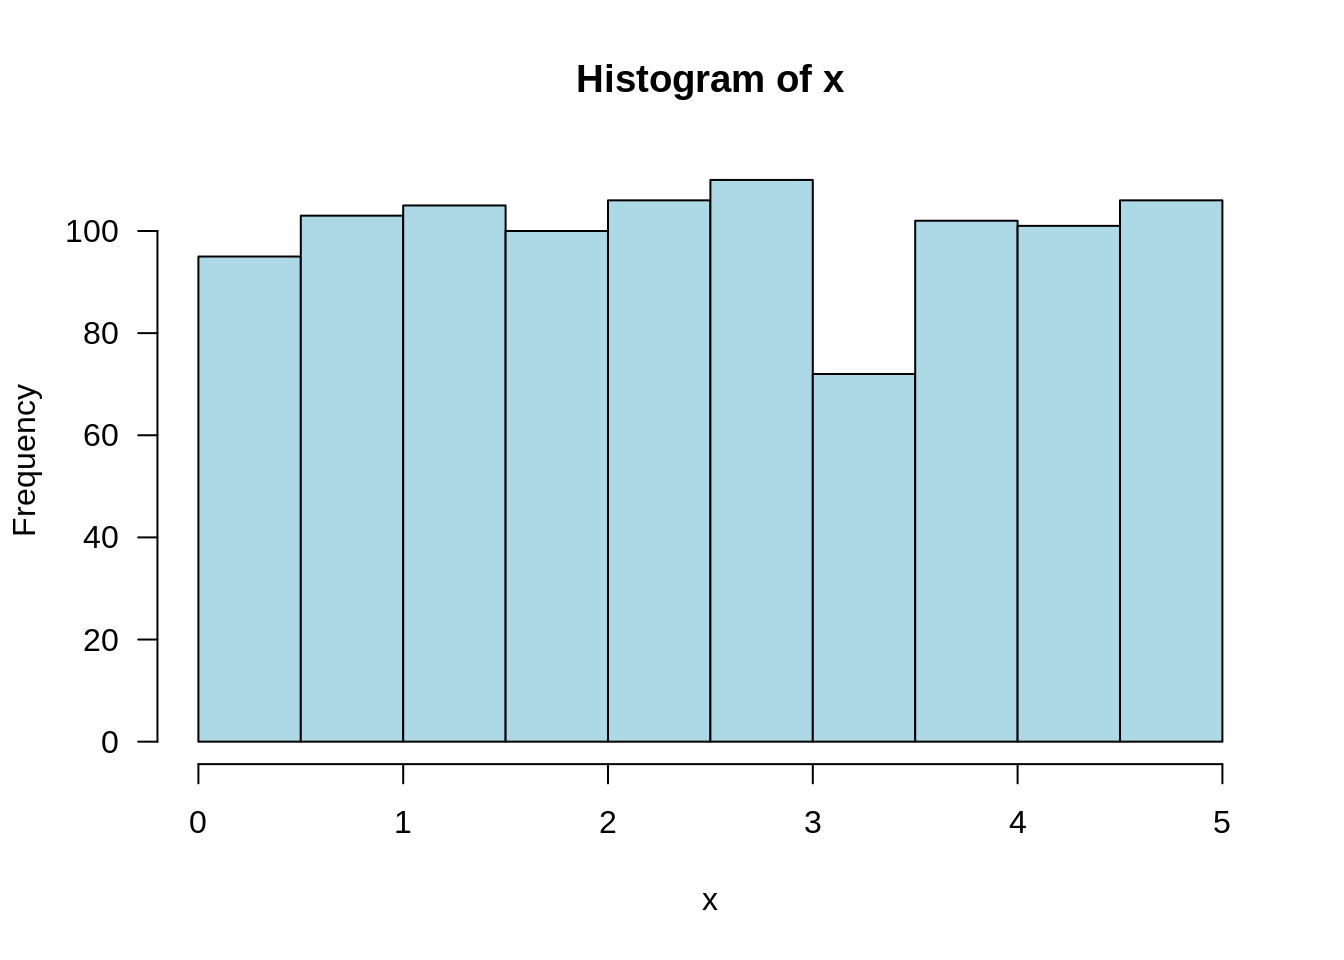
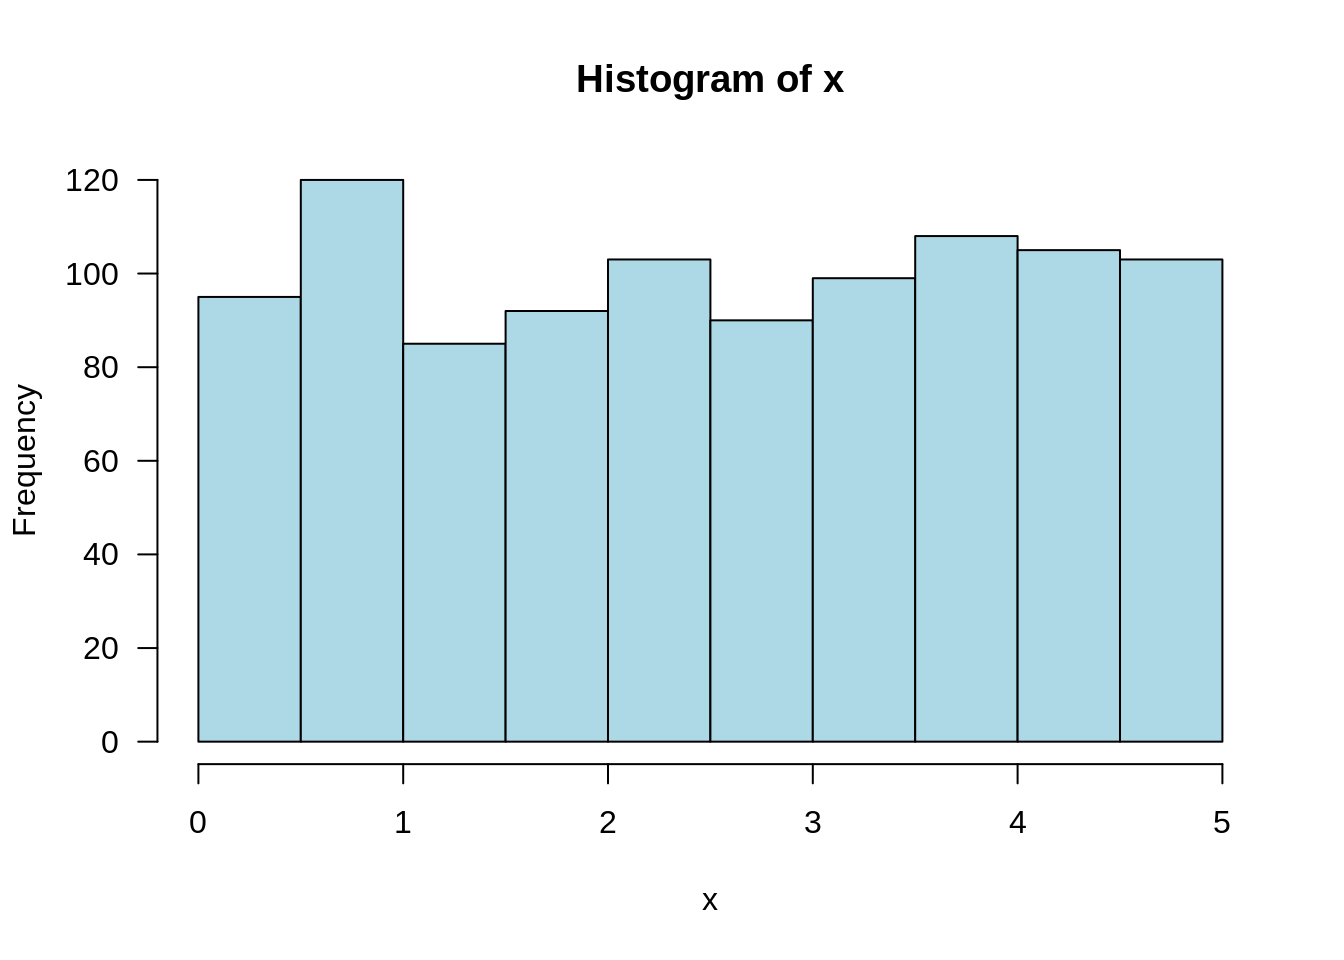
jtr13 published a site update

diff --git a/ch-4-continuous-random-variables-and-probability-distributions.html b/ch-4-continuous-random-variables-and-probability-distributions.html
@@ -24,7 +24,7 @@
 <meta name="author" content="Joyce Robbins" />
 
 
-<meta name="date" content="2021-03-27" />
+<meta name="date" content="2021-04-15" />
 
   <meta name="viewport" content="width=device-width, initial-scale=1" />
   <meta name="apple-mobile-web-app-capable" content="yes" />
@@ -270,11 +270,11 @@ code span.wa { color: #60a0b0; font-weight: bold; font-style: italic; } /* Warni
 <p>Randomly choose one number from the distribution:</p>
 <p><span class="math inline">\(f(x) = .2\)</span> for <span class="math inline">\(0 \leq x \leq 5\)</span>, 0 otherwise.</p>
 <div class="sourceCode" id="cb151"><pre class="sourceCode r"><code class="sourceCode r"><span id="cb151-1"><a href="ch-4-continuous-random-variables-and-probability-distributions.html#cb151-1"></a><span class="kw">runif</span>(<span class="dt">n =</span> <span class="dv">1</span>, <span class="dt">min =</span> <span class="dv">0</span>, <span class="dt">max =</span> <span class="dv">5</span>)</span></code></pre></div>
-<pre><code>## [1] 4.55061</code></pre>
+<pre><code>## [1] 0.2873048</code></pre>
 <p>Take the average of 1000 picks:</p>
 <div class="sourceCode" id="cb153"><pre class="sourceCode r"><code class="sourceCode r"><span id="cb153-1"><a href="ch-4-continuous-random-variables-and-probability-distributions.html#cb153-1"></a>x &lt;-<span class="st"> </span><span class="kw">runif</span>(<span class="dt">n =</span> <span class="dv">1000</span>, <span class="dt">min =</span> <span class="dv">0</span>, <span class="dt">max =</span> <span class="dv">5</span>)</span>
 <span id="cb153-2"><a href="ch-4-continuous-random-variables-and-probability-distributions.html#cb153-2"></a><span class="kw">mean</span>(x)</span></code></pre></div>
-<pre><code>## [1] 2.492148</code></pre>
+<pre><code>## [1] 2.525557</code></pre>
 <p>Draw a histogram of the 1000 picks:</p>
 <div class="sourceCode" id="cb155"><pre class="sourceCode r"><code class="sourceCode r"><span id="cb155-1"><a href="ch-4-continuous-random-variables-and-probability-distributions.html#cb155-1"></a><span class="kw">hist</span>(x, <span class="dt">las =</span> <span class="dv">1</span>, <span class="dt">col =</span> <span class="st">&quot;lightblue&quot;</span>)</span></code></pre></div>
 <p><img src="STAT1201-resource_files/figure-html/unnamed-chunk-41-1.png" width="672" /></p>

diff --git a/scripts/corrcoef.js b/scripts/corrcoef.js
@@ -1,0 +1,110 @@
+var action = "add";
+
+//Width and height of svg
+  var w = 600;
+  var h = 400;
+  var padding = 30;
+
+// axis min / max
+  var xmin = -50;
+  var xmax = 50;
+  var ymin = -30;
+  var ymax = 30;
+
+// Scale functions
+
+var xScale = d3.scaleLinear()
+  .domain([xmin, xmax])
+  .range([padding, w - padding * 2]);
+
+var yScale = d3.scaleLinear()
+  .domain([ymin, ymax])
+  .range([h - padding, padding]);
+
+
+// Axes
+  var xAxis = d3.axisBottom()
+    .scale(xScale).ticks(5);
+
+  var yAxis = d3.axisLeft()
+    .scale(yScale).ticks(5);
+
+//Create SVG element
+  var svg = d3.select("div#corr")
+    .append("svg")
+      .attr("width", w)
+      .attr("height", h);
+
+
+//Create X axis
+  svg.append("g")
+    .attr("transform", `translate(0, ${yScale(0)})`)
+		.call(xAxis);
+
+//Create Y axis
+  svg.append("g")
+    .attr("transform", `translate(${xScale(0)}, 0)`)
+    .call(yAxis);
+
+//On radio button change, update styling
+  d3.selectAll("input")
+    .on("click", function() {
+					action = d3.select(this).node().value;
+			  });
+
+// Update stats function
+
+  var updatestats = function() {
+
+    var data = d3.selectAll("circle").data();
+
+		if(data.length < 2) {
+					d3.select("p#r").text("Two points are needed to calculate r.");
+					return;
+					}
+
+		x = data.map(d => d[0]);
+
+		y = data.map(d => d[1]);
+
+		Sxx = d3.sum(x.map(d => Math.pow(d-d3.mean(x), 2)));
+
+		Sxy = d3.sum(x.map( (d, i) => (x[i]-d3.mean(x))*(y[i]-d3.mean(y))));
+
+		Syy = d3.sum(y.map(d => Math.pow(d-d3.mean(y), 2)));
+
+		corrcoef = Sxy/(Math.sqrt(Sxx)*Math.sqrt(Syy));
+
+		d3.select("p#r").text(`r = ${corrcoef.toFixed(2)}`);
+			}
+
+// Click behavior
+
+	svg.on("click", function() {
+
+	if(action === "add") {
+
+// add a point
+
+	var new_x = xScale.invert(d3.mouse(this)[0]);
+
+	var new_y = yScale.invert(d3.mouse(this)[1]);
+
+	svg.append("circle")
+	  .data([[new_x, new_y]])
+		.attr("cx", d => xScale(d[0]))
+		.attr("cy", d => yScale(d[1]))
+		.attr("r", "3")
+		.attr("fill", "red")
+		.on("mouseover", function () {
+		  if (action === "remove") {
+			   d3.select(this).remove();
+			   updatestats();
+			   }
+			 });
+
+		 updatestats();
+
+		}
+
+	});

diff --git a/ch-5-joint-probability.html b/ch-5-joint-probability.html
@@ -24,7 +24,7 @@
 <meta name="author" content="Joyce Robbins" />
 
 
-<meta name="date" content="2021-03-27" />
+<meta name="date" content="2021-04-15" />
 
   <meta name="viewport" content="width=device-width, initial-scale=1" />
   <meta name="apple-mobile-web-app-capable" content="yes" />
@@ -269,6 +269,32 @@ code span.wa { color: #60a0b0; font-weight: bold; font-style: italic; } /* Warni
 <h2>5.2 Expected Values, Covariance, and Correlation</h2>
 <p>Skip <em>everything but</em> “Covariance” pp. 214-215 and “Correlation” pp. 216-218</p>
 <p>(In both sections, skip double integrals)</p>
+<script src="https://d3js.org/d3.v4.min.js"></script>
+<div id="corr" style="width: 600px">
+<h3 id="interactive" class="unnumbered"><em>Interactive</em></h3>
+<p><strong>Click anywhere on the graph to add points. The correlation coefficient will be calculated.</strong></p>
+<p>
+The correlation coefficient (r) is a measure of the linear relationship
+between two variables x and y. To get a sense of the connection between the
+appearance of points – (x,y) pairs – in a scatterplot and the value of r,
+click anywhere on the graph to add points. To remove points, click the Remove
+points button and then mouseover points.
+</p>
+<table>
+<td>
+<p>
+<input type="radio" name="typeofaction" value="add" checked="true"> Add points
+<input type="radio" name="typeofaction" value="remove"> Remove points
+</p>
+</td>
+<td>
+<p id="r">
+Two points are needed to calculate r.
+</p>
+</td>
+</table>
+</div>
+<script src="scripts/corrcoef.js"></script>
 </div>
 <div id="resources-1" class="section level2 unnumbered">
 <h2>Resources</h2>

diff --git a/index.html b/index.html
@@ -24,7 +24,7 @@
 <meta name="author" content="Joyce Robbins" />
 
 
-<meta name="date" content="2021-03-27" />
+<meta name="date" content="2021-04-15" />
 
   <meta name="viewport" content="width=device-width, initial-scale=1" />
   <meta name="apple-mobile-web-app-capable" content="yes" />
@@ -261,7 +261,7 @@ code span.wa { color: #60a0b0; font-weight: bold; font-style: italic; } /* Warni
 <div id="header">
 <h1 class="title">Stat 1201 Resources</h1>
 <p class="author"><em>Joyce Robbins</em></p>
-<p class="date"><em>2021-03-27</em></p>
+<p class="date"><em>2021-04-15</em></p>
 </div>
 <div id="introduction" class="section level1 unnumbered">
 <h1>Introduction</h1>

diff --git a/ch-7-statistical-intervals-based-on-a-single-sample.html b/ch-7-statistical-intervals-based-on-a-single-sample.html
@@ -24,7 +24,7 @@
 <meta name="author" content="Joyce Robbins" />
 
 
-<meta name="date" content="2021-03-27" />
+<meta name="date" content="2021-04-15" />
 
   <meta name="viewport" content="width=device-width, initial-scale=1" />
   <meta name="apple-mobile-web-app-capable" content="yes" />
@@ -276,6 +276,7 @@ code span.wa { color: #60a0b0; font-weight: bold; font-style: italic; } /* Warni
 <h2>7.3 Intervals Based on a Normal Population Distribution</h2>
 <p>Use the <span class="math inline">\(t\)</span> distributions.</p>
 <p>Skip “A Prediction Interval for a Single Future Value” p. 299 to the end of the section</p>
+<p>This is a test.</p>
 
 </div>
 </div>

diff --git a/ch-1-descriptive-statistics.html b/ch-1-descriptive-statistics.html
@@ -24,7 +24,7 @@
 <meta name="author" content="Joyce Robbins" />
 
 
-<meta name="date" content="2021-03-27" />
+<meta name="date" content="2021-04-15" />
 
   <meta name="viewport" content="width=device-width, initial-scale=1" />
   <meta name="apple-mobile-web-app-capable" content="yes" />

diff --git a/ch-12-linear-regression.html b/ch-12-linear-regression.html
@@ -24,7 +24,7 @@
 <meta name="author" content="Joyce Robbins" />
 
 
-<meta name="date" content="2021-03-27" />
+<meta name="date" content="2021-04-15" />
 
   <meta name="viewport" content="width=device-width, initial-scale=1" />
   <meta name="apple-mobile-web-app-capable" content="yes" />

diff --git a/ch-2-conditional-probability.html b/ch-2-conditional-probability.html
@@ -24,7 +24,7 @@
 <meta name="author" content="Joyce Robbins" />
 
 
-<meta name="date" content="2021-03-27" />
+<meta name="date" content="2021-04-15" />
 
   <meta name="viewport" content="width=device-width, initial-scale=1" />
   <meta name="apple-mobile-web-app-capable" content="yes" />

diff --git a/ch-2-probability.html b/ch-2-probability.html
@@ -24,7 +24,7 @@
 <meta name="author" content="Joyce Robbins" />
 
 
-<meta name="date" content="2021-03-27" />
+<meta name="date" content="2021-04-15" />
 
   <meta name="viewport" content="width=device-width, initial-scale=1" />
   <meta name="apple-mobile-web-app-capable" content="yes" />

diff --git a/ch-3-discrete-distributions.html b/ch-3-discrete-distributions.html
@@ -24,7 +24,7 @@
 <meta name="author" content="Joyce Robbins" />
 
 
-<meta name="date" content="2021-03-27" />
+<meta name="date" content="2021-04-15" />
 
   <meta name="viewport" content="width=device-width, initial-scale=1" />
   <meta name="apple-mobile-web-app-capable" content="yes" />

diff --git a/ch-5-random-samples.html b/ch-5-random-samples.html
@@ -24,7 +24,7 @@
 <meta name="author" content="Joyce Robbins" />
 
 
-<meta name="date" content="2021-03-27" />
+<meta name="date" content="2021-04-15" />
 
   <meta name="viewport" content="width=device-width, initial-scale=1" />
   <meta name="apple-mobile-web-app-capable" content="yes" />

diff --git a/ch-6-point-estimation.html b/ch-6-point-estimation.html
@@ -24,7 +24,7 @@
 <meta name="author" content="Joyce Robbins" />
 
 
-<meta name="date" content="2021-03-27" />
+<meta name="date" content="2021-04-15" />
 
   <meta name="viewport" content="width=device-width, initial-scale=1" />
   <meta name="apple-mobile-web-app-capable" content="yes" />
